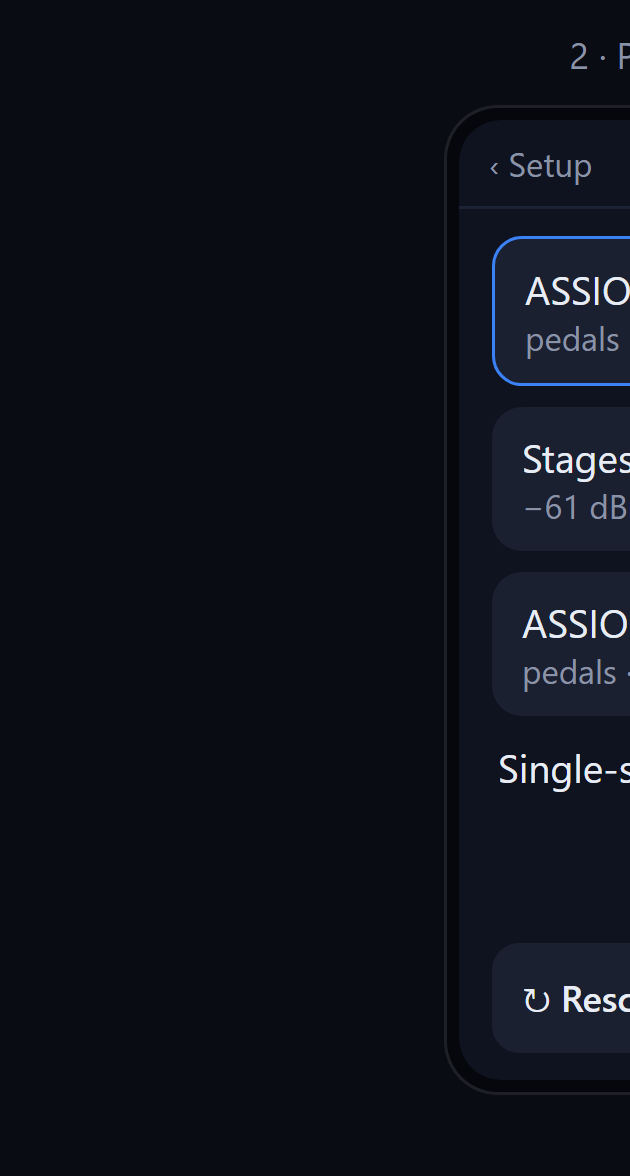
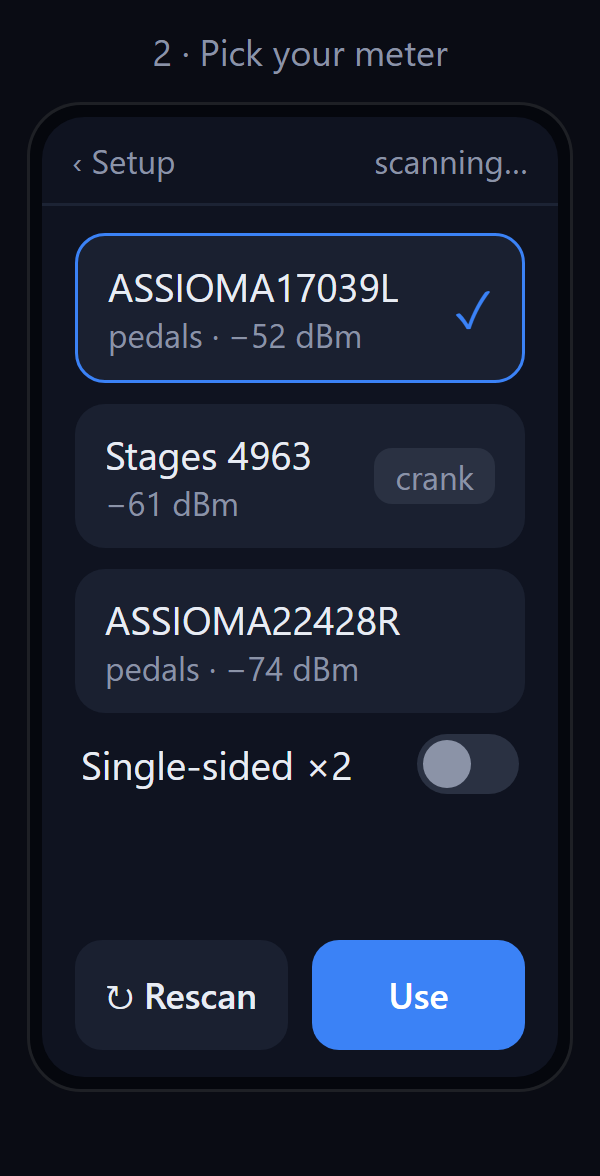
design: fix per-screen renders (pin page width) — clean full-screen PNGs
The per-screen split renders inherited the horizontal-overflow clip; _gen.py now pins
html,body width + overflow:hidden (the same fix calibrate-v2 needed). Regenerated
screen-1..6.png full + uncropped.

diff --git a/design/render/_gen.py b/design/render/_gen.py
@@ -39,8 +39,9 @@ while True:
 print("cells found:", len(cells))
 
 
-def page(inner, pad=10):
-    return (f"<!DOCTYPE html><html><head><meta charset='utf-8'>{style}</head>"
+def page(inner, pad=9):
+    return (f"<!DOCTYPE html><html><head><meta charset='utf-8'>{style}"
+            f"<style>html,body{{width:200px;overflow:hidden}}</style></head>"
             f"<body style='margin:0;background:#0a0c14;padding:{pad}px'>{inner}</body></html>")
 
 
@@ -58,7 +59,7 @@ def shot(html_path, png_path, w, h):
 for n, c in enumerate(cells, 1):
     p = REND / f"screen-{n}.html"
     p.write_text(page(f'<div class="gal" style="background:none;padding:0">{c}</div>'), encoding="utf-8")
-    shot(p, REND / f"screen-{n}.png", 210, 392)
+    shot(p, REND / f"screen-{n}.png", 200, 392)
 
 shot(SRC, REND / "all.png", 430, 1340)
 print("done")
